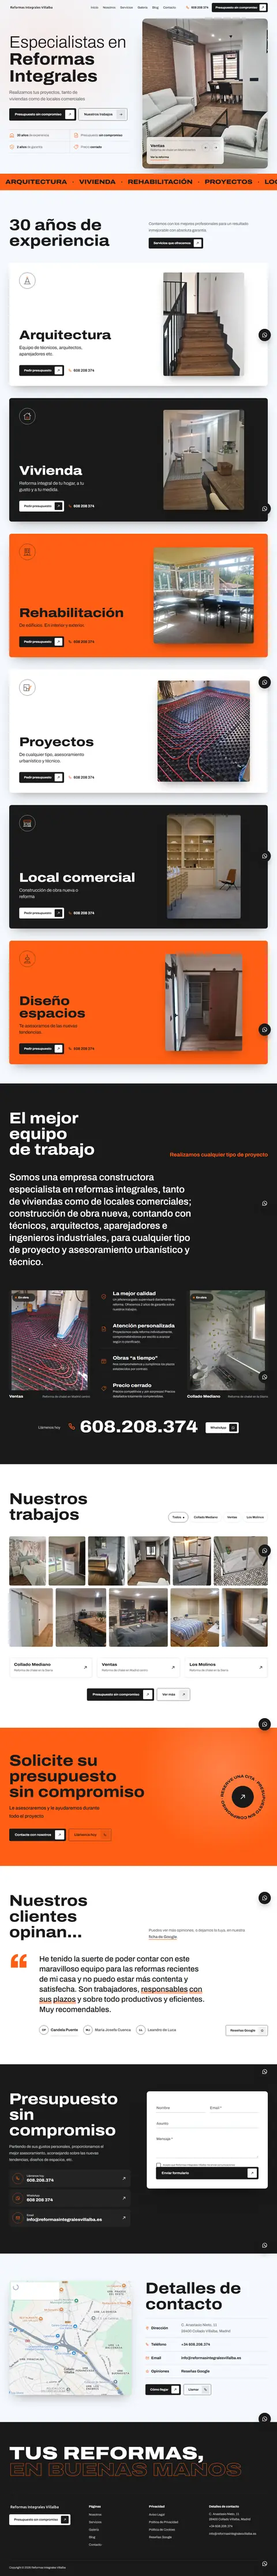
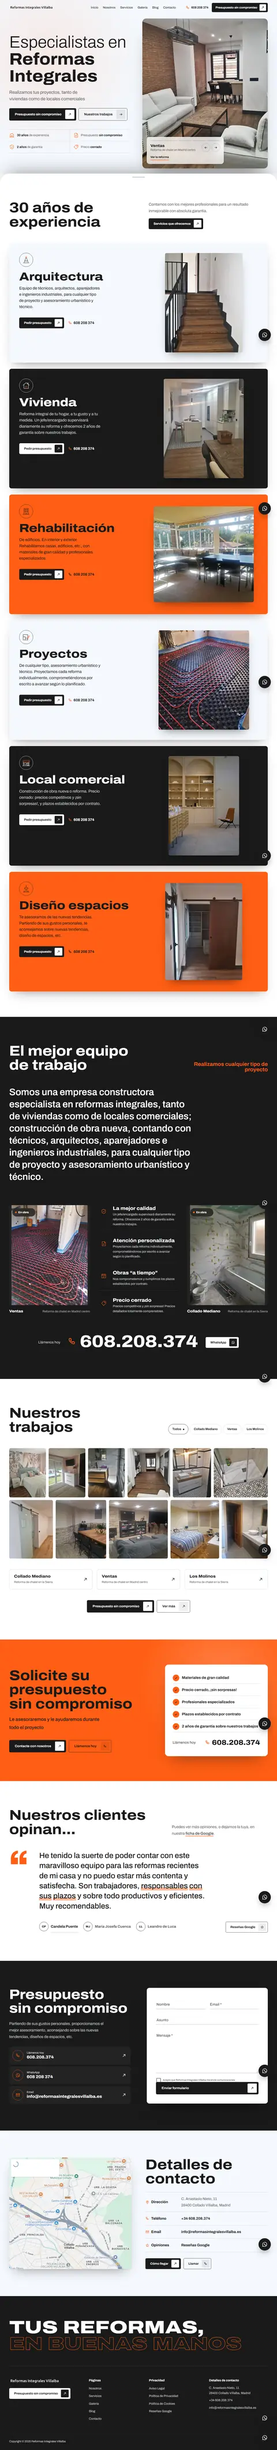
Publica reformas-integrales-villalba (ronda 4)

diff --git a/reformas-integrales-villalba/assets/css/home.css b/reformas-integrales-villalba/assets/css/home.css
@@ -271,21 +271,12 @@ h1, h2, h3 { font-weight: 750; font-stretch: 112%; line-height: 1; letter-spacin
   .hero-sangre .hero__visual::before { background: linear-gradient(0deg, rgba(18, 18, 18, .88) 0%, rgba(18, 18, 18, .55) 55%, rgba(18, 18, 18, .15) 100%); }
 }
 
-/* ════════ Cinta de servicios ════════ */
-.cinta { background: var(--naranja); color: var(--negro); overflow: hidden; border-block: 1px solid rgba(26, 26, 26, .12); }
-.cinta__pista { display: flex; align-items: center; width: max-content; }
-.cinta__pista a, .cinta__pista span { flex: none; }
-.cinta__pista a { font-weight: 800; font-stretch: 120%; text-transform: uppercase; font-size: clamp(1.15rem, .9rem + 1.2vw, 2rem); line-height: 1; padding: clamp(16px, 2vw, 26px) clamp(16px, 2vw, 28px); position: relative; }
-.cinta__pista a::after { content: ''; position: absolute; left: clamp(16px, 2vw, 28px); right: clamp(16px, 2vw, 28px); bottom: clamp(10px, 1.2vw, 16px); height: 3px; background: var(--negro); transform: scaleX(0); transform-origin: left; transition: transform .45s var(--sale); }
-.cinta__pista a:hover::after { transform: scaleX(1); }
-.cinta__pista span { font-size: .7rem; }
-.anima .cinta__pista { animation: cinta 46s linear infinite; }
-.cinta:hover .cinta__pista { animation-play-state: paused; }
-@keyframes cinta { to { transform: translateX(-50%); } }
-
 /* ════════ Cabeceras de sección ════════ */
 .cabecera { display: grid; grid-template-columns: repeat(2, minmax(0, 1fr)); gap: clamp(24px, 5vw, 96px); align-items: end; margin-bottom: clamp(40px, 5vw, 72px); }
-.cabecera h2, .equipo__cab h2, .banda h2, .presupuesto h2, .contacto h2 { font-size: clamp(2.5rem, 1.2rem + 4.3vw, 5.8rem); text-wrap: balance; }
+.cabecera h2, .equipo__cab h2, .banda h2, .presupuesto h2, .contacto h2 { font-size: clamp(2.4rem, 1.1rem + 3.9vw, 5.4rem); text-wrap: balance; }
+[data-lineas] .l { display: block; white-space: nowrap; }
+.cabecera--ancha, .equipo__cab { grid-template-columns: minmax(0, 1.55fr) minmax(0, 1fr) !important; }
+@media (max-width: 899px) { [data-lineas] .l { display: inline; white-space: normal; } }
 .cabecera__texto { display: flex; flex-direction: column; align-items: flex-start; gap: 22px; max-width: 54ch; justify-self: end; color: var(--grafito); font-size: clamp(1.05rem, 1rem + .3vw, 1.25rem); }
 .seccion--negra .cabecera__texto { color: var(--claro); }
 [data-lineas] .pal { display: inline-block; overflow: clip; overflow-clip-margin: 0 .2em .15em; vertical-align: top; padding-bottom: .06em; margin-bottom: -.06em; }
@@ -300,23 +291,29 @@ h1, h2, h3 { font-weight: 750; font-stretch: 112%; line-height: 1; letter-spacin
 
 /* ════════ 30 años: servicios en pila (cada uno se queda arriba y el siguiente lo cubre) ════════ */
 .servicios { padding-bottom: clamp(60px, 7vw, 100px); }
+.capas { position: relative; }
+.anima .capas > .hero { position: sticky; top: 0; z-index: 0; }
+.hero::after { content: ''; position: absolute; inset: 0; z-index: 6; background: #0E0E0E; opacity: var(--tapa, 0); pointer-events: none; }
+.hero__in { transform-origin: 50% 30%; }
+.capas > .servicios { z-index: 1; background: var(--blanco); border-radius: clamp(26px, 3.4vw, 52px) clamp(26px, 3.4vw, 52px) 0 0; box-shadow: 0 -40px 90px -40px rgba(26, 26, 26, .45); }
+.capas > .servicios::before { content: ''; position: absolute; left: 50%; top: 16px; width: 64px; height: 5px; margin-left: -32px; border-radius: 3px; background: var(--acero); }
 .pila { position: relative; }
 .servicio {
   position: sticky; top: calc(var(--cab) + 18px + var(--i) * 14px);
-  height: min(calc(100svh - var(--cab) - 110px), 640px); min-height: 460px; margin-bottom: 7vh;
+  height: min(calc(100svh - var(--cab) - 120px), 620px); min-height: 460px; margin-bottom: 24vh;
   display: grid; grid-template-columns: minmax(0, 1.05fr) minmax(0, .95fr); gap: clamp(24px, 4vw, 64px);
   padding: clamp(28px, 3.6vw, 56px); border-radius: 12px; overflow: hidden; box-shadow: var(--sombra); transform-origin: 50% 0;
 }
 .servicio:last-child { margin-bottom: 0; }
 .servicio::after { content: ''; position: absolute; inset: 0; background: #000; opacity: var(--sombra-pila, 0); pointer-events: none; border-radius: inherit; }
-.servicio--blanco { background: var(--blanco); color: var(--negro); }
+.servicio--blanco { background: var(--niebla); color: var(--negro); }
 .servicio--negro { background: var(--negro); color: var(--blanco); }
 .servicio--naranja { background: var(--naranja); color: var(--negro); }
 .servicio__texto { display: flex; flex-direction: column; min-height: 0; }
-.servicio__ico { width: 84px; height: 84px; border-radius: 50%; border: 1.5px solid currentColor; display: grid; place-items: center; margin-bottom: auto; opacity: .95; }
-.servicio__ico svg { width: 50px; height: 50px; overflow: visible; }
-.servicio h3 { font-size: clamp(2.2rem, .6rem + 3.9vw, 5rem); font-stretch: 116%; font-weight: 800; line-height: .98; margin-top: 24px; }
-.servicio p { font-size: clamp(1.1rem, 1rem + .5vw, 1.45rem); line-height: 1.45; max-width: 26ch; margin-top: 16px; }
+.servicio__ico { width: 72px; height: 72px; border-radius: 50%; border: 1.5px solid currentColor; display: grid; place-items: center; opacity: .95; flex: none; }
+.servicio__ico svg { width: 44px; height: 44px; overflow: visible; }
+.servicio h3 { font-size: clamp(2.1rem, .6rem + 3.5vw, 4.6rem); font-stretch: 116%; font-weight: 800; line-height: .98; margin-top: clamp(18px, 2.4vh, 28px); }
+.servicio p { font-size: clamp(1.05rem, .98rem + .35vw, 1.3rem); line-height: 1.55; max-width: 36ch; margin-top: 14px; }
 .servicio--negro p { color: var(--claro); }
 .servicio__botones { display: flex; align-items: center; gap: 22px; flex-wrap: wrap; margin-top: clamp(22px, 3vw, 40px); }
 .servicio__tel { display: inline-flex; align-items: center; gap: 8px; font-weight: 650; min-height: 44px; position: relative; }
@@ -325,7 +322,7 @@ h1, h2, h3 { font-weight: 750; font-stretch: 112%; line-height: 1; letter-spacin
 .servicio--blanco .servicio__tel .ico, .servicio--negro .servicio__tel .ico { color: var(--naranja); }
 .servicio__foto { margin: 0; min-height: 0; height: 100%; display: flex; align-items: center; justify-content: center; position: relative; }
 .servicio__marco { position: relative; display: block; max-width: 100%; max-height: 100%; border-radius: 8px; overflow: hidden; box-shadow: 0 24px 50px -24px rgba(0, 0, 0, .55); }
-.servicio__foto img { max-width: 100%; max-height: calc(max(min(100svh - var(--cab) - 110px, 640px), 460px) - 2 * clamp(28px, 3.6vw, 56px)); width: auto; height: auto; }
+.servicio__foto img { max-width: 100%; max-height: calc(max(min(100svh - var(--cab) - 120px, 620px), 460px) - 2 * clamp(28px, 3.6vw, 56px) - 2px); width: auto; height: auto; }
 /* al pasar el cursor por la foto, un reflejo de luz la cruza */
 .servicio__marco::after { content: ''; position: absolute; top: -10%; bottom: -10%; left: 0; width: 45%; pointer-events: none; background: linear-gradient(100deg, transparent, rgba(255, 255, 255, .38) 50%, transparent); transform: translateX(-130%) skewX(-16deg); opacity: 0; }
 .servicio__marco:hover::after { animation: reflejo 1.1s var(--suave); }
@@ -477,18 +474,29 @@ h1, h2, h3 { font-weight: 750; font-stretch: 112%; line-height: 1; letter-spacin
 .banda p { margin-top: 22px; font-size: clamp(1.15rem, 1rem + .6vw, 1.6rem); font-weight: 500; max-width: 34ch; }
 .banda__botones { display: flex; gap: 14px; flex-wrap: wrap; margin-top: clamp(28px, 3.4vw, 44px); }
 .banda .btn__fondo { background: var(--blanco); }
-.sello { position: relative; display: grid; place-items: center; width: clamp(190px, 18vw, 260px); aspect-ratio: 1; border-radius: 50%; }
-.sello__aro { position: absolute; inset: 0; width: 100%; height: 100%; font-weight: 750; font-stretch: 112%; font-size: 15.5px; letter-spacing: .06em; fill: var(--negro); text-transform: uppercase; }
-.anima .sello__aro { animation: gira 22s linear infinite; }
-.sello:hover .sello__aro { animation-duration: 7s; }
-@keyframes gira { to { transform: rotate(360deg); } }
-.sello__centro { position: relative; z-index: 1; width: 44%; aspect-ratio: 1; border-radius: 50%; background: var(--negro); color: var(--blanco); display: grid; place-items: center; overflow: hidden; isolation: isolate; }
-.sello__centro::before { content: ''; position: absolute; inset: 0; border-radius: 50%; background: var(--blanco); transform: scale(0); transition: transform .5s var(--muelle); z-index: -1; }
-.sello:hover .sello__centro::before, .sello:focus-visible .sello__centro::before { transform: scale(1); }
-.sello:hover .sello__centro, .sello:focus-visible .sello__centro { color: var(--negro); }
-.sello__centro svg { width: 32%; height: 32%; }
-.sello:hover .sello__centro svg { animation: flecha .75s var(--sale); }
-@media (max-width: 899px) { .banda__in { grid-template-columns: 1fr; } .sello { justify-self: end; margin-top: -40px; width: 160px; } }
+.banda__in { grid-template-columns: minmax(0, 1.15fr) minmax(0, .85fr); }
+.garantias { background: var(--blanco); color: var(--negro); border-radius: 18px; padding: clamp(24px, 2.8vw, 40px); box-shadow: 0 40px 80px -40px rgba(26, 26, 26, .55); }
+.garantias ul { display: grid; gap: 4px; }
+.garantias li { display: flex; align-items: center; gap: 14px; padding: 12px 0; border-bottom: 1px solid var(--acero); font-weight: 650; font-stretch: 104%; font-size: clamp(1.02rem, .96rem + .3vw, 1.2rem); line-height: 1.3; }
+.garantias__ok { flex: none; width: 34px; height: 34px; border-radius: 50%; background: var(--naranja); display: grid; place-items: center; }
+.garantias__ok svg { width: 18px; height: 18px; fill: none; stroke: var(--negro); stroke-width: 2.6; }
+.anima .garantias li { opacity: 0; transform: translateX(-14px); transition: opacity .5s linear, transform .8s var(--sale); }
+.anima .garantias__ok { transform: scale(0); transition: transform .6s var(--muelle); }
+.anima .garantias.visto li, .anima .garantias.visto .garantias__ok { opacity: 1; transform: none; }
+.anima .garantias.visto li:nth-child(1), .anima .garantias.visto li:nth-child(1) .garantias__ok { transition-delay: .25s; }
+.anima .garantias.visto li:nth-child(2), .anima .garantias.visto li:nth-child(2) .garantias__ok { transition-delay: .4s; }
+.anima .garantias.visto li:nth-child(3), .anima .garantias.visto li:nth-child(3) .garantias__ok { transition-delay: .55s; }
+.anima .garantias.visto li:nth-child(4), .anima .garantias.visto li:nth-child(4) .garantias__ok { transition-delay: .7s; }
+.anima .garantias.visto li:nth-child(5), .anima .garantias.visto li:nth-child(5) .garantias__ok { transition-delay: .85s; }
+.garantias li.gesto-on .garantias__ok { animation: marca .8s var(--muelle); }
+@keyframes marca { 0% { transform: none; } 40% { transform: scale(1.25) rotate(-10deg); } 100% { transform: none; } }
+.garantias__tel { display: flex; align-items: center; justify-content: space-between; gap: 12px; flex-wrap: wrap; margin-top: 18px; padding-top: 4px; }
+.garantias__tel span { color: var(--grafito); font-weight: 500; }
+.garantias__tel strong { display: inline-flex; align-items: center; gap: 10px; font-size: clamp(1.6rem, 1.2rem + 1.2vw, 2.3rem); font-weight: 800; font-stretch: 110%; position: relative; }
+.garantias__tel .ico { width: 26px; height: 26px; color: var(--naranja); }
+.garantias__tel strong::after { content: ''; position: absolute; left: 36px; right: 0; bottom: -4px; height: 3px; background: var(--naranja); transform: scaleX(0); transform-origin: left; transition: transform .5s var(--sale); }
+.garantias__tel:hover strong::after, .garantias__tel:focus-visible strong::after { transform: scaleX(1); }
+@media (max-width: 899px) { .banda__in { grid-template-columns: 1fr; } }
 
 /* ════════ Opiniones ════════ */
 .citas { display: grid; grid-template-columns: auto minmax(0, 1fr); column-gap: clamp(20px, 4vw, 72px); }
@@ -522,7 +530,10 @@ h1, h2, h3 { font-weight: 750; font-stretch: 112%; line-height: 1; letter-spacin
 @media (max-width: 599px) { .citas { grid-template-columns: 1fr; } .citas__comilla { grid-row: auto; font-size: 6rem; height: .55em; } .citas__pie { grid-column: 1; } .citas__nombres { flex-direction: column; gap: 0; } }
 
 /* ════════ Presupuesto sin compromiso: formulario ════════ */
-.presupuesto__rejilla { display: grid; grid-template-columns: repeat(2, minmax(0, 1fr)); gap: clamp(32px, 6vw, 112px); align-items: start; }
+.presupuesto__rejilla { display: grid; grid-template-columns: repeat(2, minmax(0, 1fr)); gap: clamp(32px, 6vw, 112px); align-items: stretch; }
+.formulario { grid-template-rows: auto auto minmax(130px, 1fr) auto auto; align-content: stretch; }
+.campo--mensaje textarea { flex: 1; min-height: 130px; height: 100%; resize: none; }
+.formulario.enviado { grid-template-rows: 1fr; align-content: center; }
 .presupuesto__texto > p { margin-top: 26px; max-width: 44ch; color: var(--claro); font-size: clamp(1.05rem, 1rem + .3vw, 1.25rem); }
 .vias { margin-top: 36px; display: grid; gap: 12px; }
 .via { position: relative; isolation: isolate; overflow: hidden; display: flex; align-items: center; gap: 18px; padding: 16px 20px 16px 16px; border-radius: 10px; background: var(--negro-2); border: 1px solid var(--negro-3); }
@@ -560,7 +571,7 @@ h1, h2, h3 { font-weight: 750; font-stretch: 112%; line-height: 1; letter-spacin
 .campo--casilla input:checked + label .casilla svg { transform: none; }
 .campo--casilla input:focus-visible + label .casilla { outline: 2px solid var(--naranja); outline-offset: 3px; }
 .campo--casilla .campo__error { flex-basis: 100%; padding-left: 42px; }
-.formulario__pie { grid-column: 1 / -1; margin-top: 6px; }
+.formulario__pie { grid-column: 1 / -1; margin-top: 6px; align-self: end; }
 .formulario__pie .btn { width: 100%; justify-content: space-between; }
 .formulario__hecho { grid-column: 1 / -1; text-align: center; padding: 24px 8px; }
 .formulario__hecho[hidden] { display: none; }
@@ -657,3 +668,4 @@ h1, h2, h3 { font-weight: 750; font-stretch: 112%; line-height: 1; letter-spacin
 .obra__marco:hover .obra__sello { transform: scale(1.08); }
 .obra__sello { transform-origin: 0 0; transition: transform .5s var(--muelle); }
 @media (max-width: 599px) { .ficha-hero__paso { width: 40px; height: 40px; } .ficha-hero__acciones { gap: 6px; } }
+.quieto .servicio { margin-bottom: 32px; }

diff --git a/reformas-integrales-villalba/index.html b/reformas-integrales-villalba/index.html
@@ -23,7 +23,7 @@
 <script>
   /* Caducidad: a partir de esta fecha la página lleva al aviso. En local no caduca; ?caducada lo simula. */
   (function () {
-    var fin = Date.UTC(2026, 10, 28, 23, 0);
+    var fin = Date.UTC(2026, 10, 29, 23, 0);
     if (/[?&]caducada\b/.test(location.search) || (location.protocol !== 'file:' && !/^(localhost|127\.0\.0\.1)$/.test(location.hostname) && Date.now() >= fin)) {
       document.documentElement.style.display = 'none';
       location.replace('caducada.html');
@@ -115,6 +115,7 @@
 
 <main id="contenido">
 
+<div class="capas" data-capas>
 <!-- ═════════ HERO: luz, sus mejores estancias y el nombre bien escrito ═════════ -->
 <section class="hero" data-hero aria-labelledby="hero-titulo">
   <div class="hero__in">
@@ -156,19 +157,6 @@
   </div>
 </section>
 
-<!-- Cinta de sus servicios, que no para -->
-<div class="cinta" aria-label="Servicios">
-  <div class="cinta__pista" data-cinta>
-    <a href="#s-arquitectura">Arquitectura</a><span aria-hidden="true">●</span>
-    <a href="#s-vivienda">Vivienda</a><span aria-hidden="true">●</span>
-    <a href="#s-rehabilitacion">Rehabilitación</a><span aria-hidden="true">●</span>
-    <a href="#s-proyectos">Proyectos</a><span aria-hidden="true">●</span>
-    <a href="#s-local">Local comercial</a><span aria-hidden="true">●</span>
-    <a href="#s-diseno">Diseño espacios</a><span aria-hidden="true">●</span>
-    <a href="#presupuesto" data-asunto="">Presupuesto sin compromiso</a><span aria-hidden="true">●</span>
-  </div>
-</div>
-
 <!-- ═════════ 30 AÑOS: SERVICIOS EN PILA ═════════ -->
 <section class="seccion seccion--niebla servicios" id="servicios" aria-labelledby="servicios-titulo">
   <div class="caja">
@@ -185,7 +173,7 @@
         <div class="servicio__texto">
           <span class="servicio__ico" aria-hidden="true"><svg viewBox="0 0 48 48" class="dib dib--compas"><circle cx="24" cy="9" r="3.2" class="t n"/><path class="pata pata--i" d="M22.6 11.8 13 38"/><path class="pata pata--d" d="M25.4 11.8 35 38"/><path d="M15.5 30.5h17" class="t"/><path d="M8 41h32" class="t"/></svg></span>
           <h3 id="t-arq">Arquitectura</h3>
-          <p>Equipo de técnicos, arquitectos, aparejadores etc.</p>
+          <p>Equipo de técnicos, arquitectos, aparejadores e ingenieros industriales, para cualquier tipo de proyecto y asesoramiento urbanístico y técnico.</p>
           <div class="servicio__botones">
             <a class="btn btn--oscuro" href="#presupuesto" data-asunto="Arquitectura"><span class="btn__fondo" aria-hidden="true"></span><span class="btn__texto" data-t="Pedir presupuesto"><span>Pedir presupuesto</span></span><span class="btn__ico" aria-hidden="true"><svg><use href="#i-flecha"/></svg></span></a>
             <a class="servicio__tel" href="tel:+34608208374"><svg class="ico ico--tel" aria-hidden="true"><use href="#i-tel"/></svg>608 208 374</a>
@@ -198,7 +186,7 @@
         <div class="servicio__texto">
           <span class="servicio__ico" aria-hidden="true"><svg viewBox="0 0 48 48" class="dib dib--casa"><path class="tejado t" d="M6 22 24 8l18 14"/><path d="M11 19v21h26V19" class="t"/><path class="puerta t n" d="M20 40V28h8v12"/><path d="M32 13V9h4v7" class="t"/></svg></span>
           <h3 id="t-viv">Vivienda</h3>
-          <p>Reforma integral de tu hogar, a tu gusto y a tu medida.</p>
+          <p>Reforma integral de tu hogar, a tu gusto y a tu medida. Un jefe/encargado supervisará diariamente su reforma y ofrecemos 2 años de garantía sobre nuestros trabajos.</p>
           <div class="servicio__botones">
             <a class="btn btn--claro" href="#presupuesto" data-asunto="Vivienda"><span class="btn__fondo" aria-hidden="true"></span><span class="btn__texto" data-t="Pedir presupuesto"><span>Pedir presupuesto</span></span><span class="btn__ico" aria-hidden="true"><svg><use href="#i-flecha"/></svg></span></a>
             <a class="servicio__tel" href="tel:+34608208374"><svg class="ico ico--tel" aria-hidden="true"><use href="#i-tel"/></svg>608 208 374</a>
@@ -211,7 +199,7 @@
         <div class="servicio__texto">
           <span class="servicio__ico" aria-hidden="true"><svg viewBox="0 0 48 48" class="dib dib--edificio"><path d="M12 41V8h24v33" class="t"/><path d="M6 41h36" class="t"/><g class="ventanas"><rect x="17" y="13" width="4" height="5" class="t v1"/><rect x="27" y="13" width="4" height="5" class="t v2"/><rect x="17" y="23" width="4" height="5" class="t v3"/><rect x="27" y="23" width="4" height="5" class="t v4"/></g><path d="M21 41v-6h6v6" class="t"/></svg></span>
           <h3 id="t-reh">Rehabilitación</h3>
-          <p>De edificios. En interior y exterior.</p>
+          <p>De edificios. En interior y exterior. Rehabilitamos casas, edificios, etc., con materiales de gran calidad y profesionales especializados.</p>
           <div class="servicio__botones">
             <a class="btn btn--oscuro" href="#presupuesto" data-asunto="Rehabilitación"><span class="btn__fondo" aria-hidden="true"></span><span class="btn__texto" data-t="Pedir presupuesto"><span>Pedir presupuesto</span></span><span class="btn__ico" aria-hidden="true"><svg><use href="#i-flecha"/></svg></span></a>
             <a class="servicio__tel" href="tel:+34608208374"><svg class="ico ico--tel" aria-hidden="true"><use href="#i-tel"/></svg>608 208 374</a>
@@ -224,7 +212,7 @@
         <div class="servicio__texto">
           <span class="servicio__ico" aria-hidden="true"><svg viewBox="0 0 48 48" class="dib dib--plano"><path d="M7 10h26v30H7z" class="t"/><path d="M7 22h12v18M19 30h14" class="t"/><g class="lapiz"><path d="m30 33 10-17 3 1.8-10 17-3.6 1.6z" class="t n"/></g></svg></span>
           <h3 id="t-pro">Proyectos</h3>
-          <p>De cualquier tipo, asesoramiento urbanístico y técnico.</p>
+          <p>De cualquier tipo, asesoramiento urbanístico y técnico. Proyectamos cada reforma individualmente, comprometiéndonos por escrito a avanzar según lo planificado.</p>
           <div class="servicio__botones">
             <a class="btn btn--oscuro" href="#presupuesto" data-asunto="Proyectos"><span class="btn__fondo" aria-hidden="true"></span><span class="btn__texto" data-t="Pedir presupuesto"><span>Pedir presupuesto</span></span><span class="btn__ico" aria-hidden="true"><svg><use href="#i-flecha"/></svg></span></a>
             <a class="servicio__tel" href="tel:+34608208374"><svg class="ico ico--tel" aria-hidden="true"><use href="#i-tel"/></svg>608 208 374</a>
@@ -237,7 +225,7 @@
         <div class="servicio__texto">
           <span class="servicio__ico" aria-hidden="true"><svg viewBox="0 0 48 48" class="dib dib--local"><path d="M8 18v22h32V18" class="t"/><path d="M6 10h36v8H6z" class="t n"/><path d="M12 24h13v10H12z" class="t"/><path d="M30 40V24h6v16" class="t"/><path class="hoja t" d="M30 24h6v16h-6z"/><path d="M4 40h40" class="t"/></svg></span>
           <h3 id="t-loc">Local comercial</h3>
-          <p>Construcción de obra nueva o reforma</p>
+          <p>Construcción de obra nueva o reforma. Precio cerrado: precios competitivos y ¡sin sorpresas!, y plazos establecidos por contrato.</p>
           <div class="servicio__botones">
             <a class="btn btn--claro" href="#presupuesto" data-asunto="Local comercial"><span class="btn__fondo" aria-hidden="true"></span><span class="btn__texto" data-t="Pedir presupuesto"><span>Pedir presupuesto</span></span><span class="btn__ico" aria-hidden="true"><svg><use href="#i-flecha"/></svg></span></a>
             <a class="servicio__tel" href="tel:+34608208374"><svg class="ico ico--tel" aria-hidden="true"><use href="#i-tel"/></svg>608 208 374</a>
@@ -250,7 +238,7 @@
         <div class="servicio__texto">
           <span class="servicio__ico" aria-hidden="true"><svg viewBox="0 0 48 48" class="dib dib--lampara"><g class="cuelga"><path d="M24 4v12" class="t"/><path d="M14 26a10 10 0 0 1 20 0z" class="t"/><path d="M21 30a3 3 0 0 0 6 0" class="t"/></g><path d="M8 44h32M12 44v-6h24v6" class="t"/></svg></span>
           <h3 id="t-dis">Diseño espacios</h3>
-          <p>Te asesoramos de las nuevas tendencias.</p>
+          <p>Te asesoramos de las nuevas tendencias. Partiendo de sus gustos personales, te aconsejamos sobre nuevas tendencias, diseño de espacios, etc.</p>
           <div class="servicio__botones">
             <a class="btn btn--oscuro" href="#presupuesto" data-asunto="Diseño de espacios"><span class="btn__fondo" aria-hidden="true"></span><span class="btn__texto" data-t="Pedir presupuesto"><span>Pedir presupuesto</span></span><span class="btn__ico" aria-hidden="true"><svg><use href="#i-flecha"/></svg></span></a>
             <a class="servicio__tel" href="tel:+34608208374"><svg class="ico ico--tel" aria-hidden="true"><use href="#i-tel"/></svg>608 208 374</a>
@@ -262,11 +250,13 @@
   </div>
 </section>
 
+</div>
+
 <!-- ═════════ EL MEJOR EQUIPO DE TRABAJO ═════════ -->
 <section class="seccion seccion--negra equipo" id="equipo" aria-labelledby="equipo-titulo">
   <div class="caja">
     <div class="equipo__cab" data-revela>
-      <h2 id="equipo-titulo" data-lineas>El mejor equipo de trabajo</h2>
+      <h2 id="equipo-titulo" data-lineas><span class="l">El mejor equipo</span> <span class="l">de trabajo</span></h2>
       <h3 class="equipo__sub">Realizamos cualquier tipo de proyecto</h3>
     </div>
     <p class="leido" data-leido>Somos una empresa constructora especialista en reformas integrales, tanto de viviendas como de locales comerciales; construcción de obra nueva, contando con técnicos, arquitectos, aparejadores e ingenieros industriales, para cualquier tipo de proyecto y asesoramiento urbanístico y técnico.</p>
@@ -371,18 +361,24 @@
         <a class="btn btn--linea-oscuro btn--grande" href="tel:+34608208374"><span class="btn__fondo" aria-hidden="true"></span><span class="btn__texto" data-t="Llámenos hoy"><span>Llámenos hoy</span></span><span class="btn__ico" aria-hidden="true"><svg class="ico--tel"><use href="#i-tel"/></svg></span></a>
       </div>
     </div>
-    <a class="sello" href="#presupuesto" data-asunto="" aria-label="Reserve una cita">
-      <svg class="sello__aro" viewBox="0 0 200 200" aria-hidden="true"><defs><path id="aro" d="M100,100 m-78,0 a78,78 0 1,1 156,0 a78,78 0 1,1 -156,0"/></defs><text><textPath href="#aro" startOffset="0" textLength="486">Reserve una cita · Presupuesto sin compromiso ·</textPath></text></svg>
-      <span class="sello__centro" aria-hidden="true"><svg><use href="#i-flecha"/></svg></span>
-    </a>
+    <aside class="garantias" data-garantias data-revela aria-label="Con nuestra empresa">
+      <ul data-ola>
+        <li><span class="garantias__ok" aria-hidden="true"><svg viewBox="0 0 24 24"><path d="m5 12.5 4.5 4.5L19 7.5"/></svg></span>Materiales de gran calidad</li>
+        <li><span class="garantias__ok" aria-hidden="true"><svg viewBox="0 0 24 24"><path d="m5 12.5 4.5 4.5L19 7.5"/></svg></span>Precio cerrado, ¡sin sorpresas!</li>
+        <li><span class="garantias__ok" aria-hidden="true"><svg viewBox="0 0 24 24"><path d="m5 12.5 4.5 4.5L19 7.5"/></svg></span>Profesionales especializados</li>
+        <li><span class="garantias__ok" aria-hidden="true"><svg viewBox="0 0 24 24"><path d="m5 12.5 4.5 4.5L19 7.5"/></svg></span>Plazos establecidos por contrato</li>
+        <li><span class="garantias__ok" aria-hidden="true"><svg viewBox="0 0 24 24"><path d="m5 12.5 4.5 4.5L19 7.5"/></svg></span>2 años de garantía sobre nuestros trabajos</li>
+      </ul>
+      <a class="garantias__tel" href="tel:+34608208374"><span>Llámenos hoy</span><strong><svg class="ico ico--tel" aria-hidden="true"><use href="#i-tel"/></svg>608.208.374</strong></a>
+    </aside>
   </div>
 </section>
 
 <!-- ═════════ OPINIONES ═════════ -->
 <section class="seccion seccion--blanca opiniones" id="opiniones" aria-labelledby="opiniones-titulo">
   <div class="caja">
-    <div class="cabecera" data-revela>
-      <h2 id="opiniones-titulo" data-lineas>Nuestros clientes opinan...</h2>
+    <div class="cabecera cabecera--ancha" data-revela>
+      <h2 id="opiniones-titulo" data-lineas><span class="l">Nuestros clientes</span> <span class="l">opinan...</span></h2>
       <div class="cabecera__texto">
         <p>Puedes ver más opiniones, o dejarnos la tuya, en nuestra <a class="enlace-texto" href="https://goo.gl/maps/8DYUtqV375posC9k6" target="_blank" rel="noopener">ficha de Google</a>.</p>
       </div>
@@ -417,7 +413,7 @@
 <section class="seccion seccion--negra presupuesto" id="presupuesto" aria-labelledby="presupuesto-titulo">
   <div class="caja presupuesto__rejilla">
     <div class="presupuesto__texto" data-revela>
-      <h2 id="presupuesto-titulo" data-lineas>Presupuesto sin compromiso</h2>
+      <h2 id="presupuesto-titulo" data-lineas><span class="l">Presupuesto</span> <span class="l">sin compromiso</span></h2>
       <p>Partiendo de sus gustos personales, proporcionamos el mejor asesoramiento, aconsejando sobre las nuevas tendencias, diseños de espacios, etc.</p>
       <div class="vias">
         <a class="via" href="tel:+34608208374"><span class="via__ico" aria-hidden="true"><svg class="ico--tel"><use href="#i-tel"/></svg></span><span class="via__t"><small>Llámenos hoy</small>608.208.374</span><svg class="via__f" aria-hidden="true"><use href="#i-flecha"/></svg></a>
@@ -440,7 +436,7 @@
         <input id="f-asunto" name="asunto" type="text" placeholder=" ">
         <label for="f-asunto">Asunto</label>
       </div>
-      <div class="campo campo--ancho">
+      <div class="campo campo--ancho campo--mensaje">
         <textarea id="f-mensaje" name="mensaje" rows="4" required aria-describedby="e-mensaje" placeholder=" "></textarea>
         <label for="f-mensaje">Mensaje *</label>
         <span class="campo__error" id="e-mensaje"></span>

diff --git a/reformas-integrales-villalba/assets/js/home.js b/reformas-integrales-villalba/assets/js/home.js
@@ -73,15 +73,36 @@
 
   /* ── Títulos: cada palabra sube desde su línea ── */
   $$('[data-lineas]').forEach((h) => {
-    const palabras = h.textContent.trim().split(/\s+/);
-    h.textContent = '';
-    palabras.forEach((p, i) => {
-      const caja = document.createElement('span'); caja.className = 'pal';
-      const dentro = document.createElement('span'); dentro.style.setProperty('--i', i); dentro.textContent = p;
-      caja.appendChild(dentro); h.appendChild(caja);
-      if (i < palabras.length - 1) h.appendChild(document.createTextNode(' '));
-    });
+    let n = 0;
+    const parte = (cont) => {
+      const palabras = cont.textContent.trim().split(/\s+/);
+      cont.textContent = '';
+      palabras.forEach((p, i) => {
+        const caja = document.createElement('span'); caja.className = 'pal';
+        const dentro = document.createElement('span'); dentro.style.setProperty('--i', n++); dentro.textContent = p;
+        caja.appendChild(dentro); cont.appendChild(caja);
+        if (i < palabras.length - 1) cont.appendChild(document.createTextNode(' '));
+      });
+    };
+    const lineas = $$('.l', h);
+    if (lineas.length) lineas.forEach(parte); else parte(h);
   });
+  /* Títulos en dos líneas exactas: si una línea no cabe en su columna, el título se reduce lo justo */
+  const ajustaLineas = () => $$('[data-lineas]').forEach((h) => {
+    const lineas = $$('.l', h);
+    if (!lineas.length) return;
+    h.style.fontSize = '';
+    if (innerWidth < 900) return;
+    for (let k = 0; k < 20; k++) {
+      const ancho = h.clientWidth;
+      if (Math.max(...lineas.map((l) => l.scrollWidth)) <= ancho + 1) break;
+      h.style.fontSize = (parseFloat(getComputedStyle(h).fontSize) * .96).toFixed(2) + 'px';
+    }
+  });
+  ajustaLineas();
+  if (document.fonts) document.fonts.ready.then(ajustaLineas);
+  let tLin;
+  addEventListener('resize', () => { clearTimeout(tLin); tLin = setTimeout(ajustaLineas, 150); });
 
   /* ── Entradas al aparecer ── */
   const revela = $$('[data-revela]');
@@ -170,6 +191,21 @@
     vigila(hero, (dentro) => { if (!dentro) { pausaHero = true; ficha.classList.add('pausa'); } else if (!ficha.matches(':hover')) { pausaHero = false; ficha.classList.remove('pausa'); } });
     setTimeout(() => pinta(0), 1300);
   } else pinta(0);
+
+  const capas = $('[data-capas]');
+  if (capas && !quieto) {
+    let pedido = false;
+    const capa = () => {
+      pedido = false;
+      const p = Math.min(1, Math.max(0, scrollY / (hero.offsetHeight || innerHeight)));
+      hero.style.setProperty('--tapa', (p * .6).toFixed(3));
+      heroIn.style.transform = p > 0 ? `scale(${(1 - .08 * p).toFixed(4)}) translateY(${(-3 * p).toFixed(2)}vh)` : '';
+      if (p > .92 && !pausaHero) { pausaHero = true; ficha.classList.add('pausa'); }
+      else if (p <= .9 && pausaHero && !ficha.matches(':hover') && !document.hidden) { pausaHero = false; ficha.classList.remove('pausa'); }
+    };
+    addEventListener('scroll', () => { if (!pedido) { pedido = true; requestAnimationFrame(capa); } }, { passive: true });
+    capa();
+  }
 
   /* ── Cinta: se duplica para que no tenga fin ── */
   const cinta = $('[data-cinta]');

diff --git a/reformas-integrales-villalba/caducada.html b/reformas-integrales-villalba/caducada.html
@@ -80,7 +80,7 @@
 
     <figure class="miniatura">
       <span class="ventana" tabindex="0" aria-label="Miniatura de la home propuesta">
-        <img src="assets/img/home-miniatura.webp" width="480" height="4450" alt="Miniatura de la home propuesta para Reformas Integrales Villalba, completa de arriba abajo" onerror="this.closest('figure').hidden = true">
+        <img src="assets/img/home-miniatura.webp" width="480" height="4234" alt="Miniatura de la home propuesta para Reformas Integrales Villalba, completa de arriba abajo" onerror="this.closest('figure').hidden = true">
       </span>
     </figure>
   </main>
